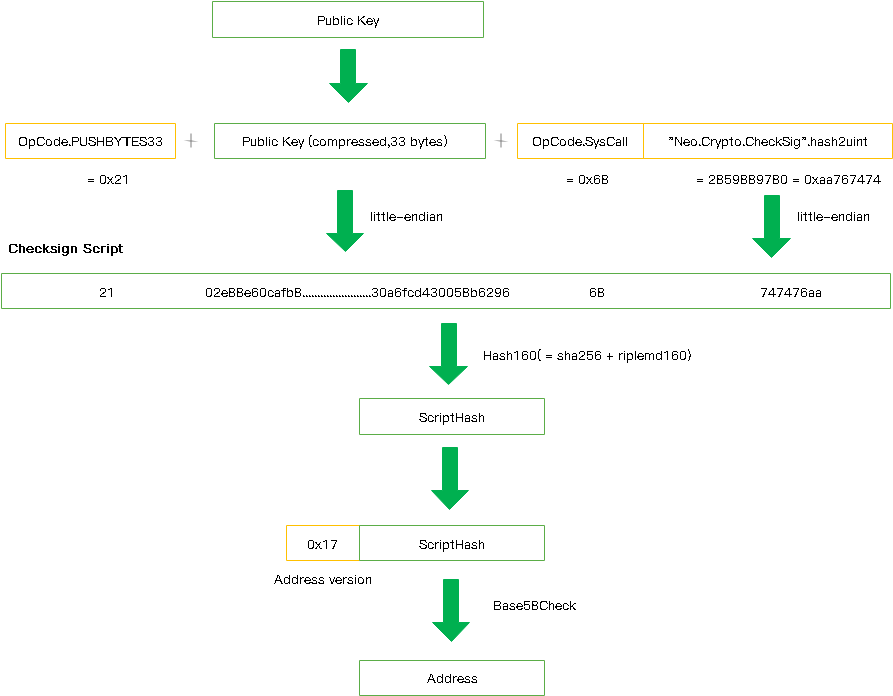
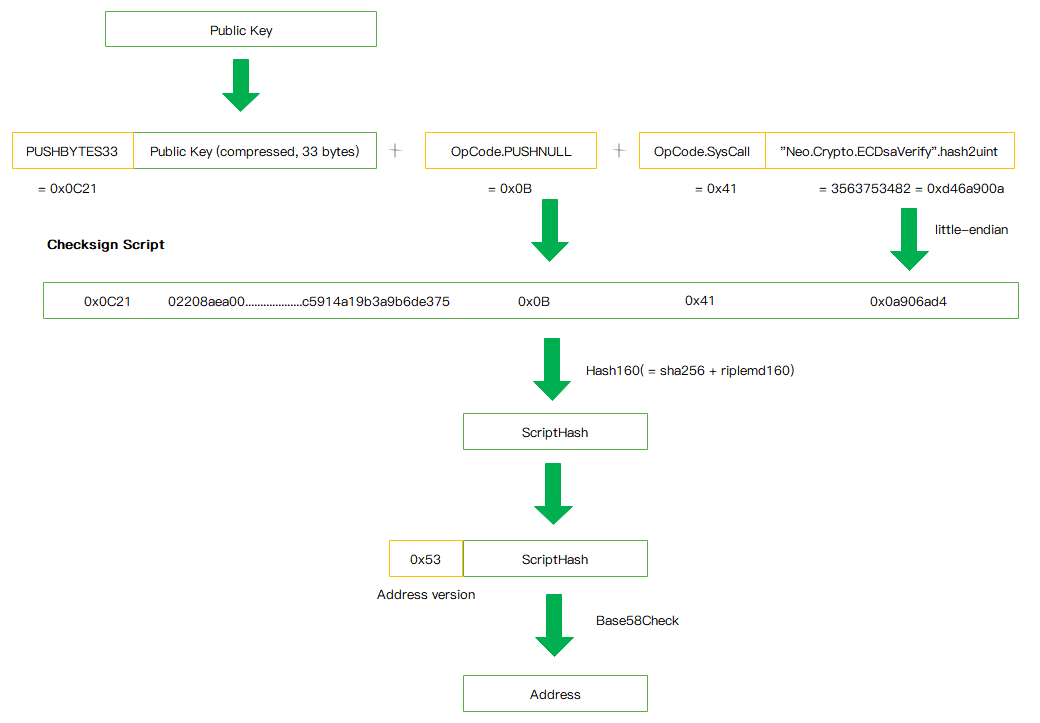
update wallet

diff --git a/docs/en-us/tooldev/wallets.md b/docs/en-us/tooldev/wallets.md
@@ -60,21 +60,21 @@ Address is a string of numbers and letters after a series of transformations of 
 
 > [!Note]
 >
-> The address script in NEO3 has changed not using the Opcode.CheckSig and OpCode.CheckMultiSig but the interoperable service call `SysCall "Neo.Crypto.CheckSig".hash2uint`, `SysCall "Neo.Crypto .CheckMultiSig".hash2unit` instead.
+> The address script in NEO3 has changed not using the Opcode.CheckSig and OpCode.CheckMultiSig but the interoperable service call `SysCall "Neo.Crypto.ECDsaVerify".hash2uint`, `SysCall "Neo.Crypto.ECDsaCheckMultiSig".hash2unit` instead.
 
 #### Ordinary Address
 
 1. Build a `CheckSig` script with the public key, and the format is as follows:
 
     ```
-    0x21 + Public Key(Compressed 33 bytes) + 0x68 + 0x747476aa
+    0x0C + 0x21 + Public Key(Compressed 33 bytes) + 0x0B + 0x41 + 0x0a906ad4
     ```
 
     ![](images\wallets\account_address_script_checksign.png)
 
 2. Calculate script hash of the contract (20 bytes, make once SHA256 and RIPEMD160 of the script). 
 
-3. Add the version prefix in the hash (Currently, the NEO version is `0x17`).
+3. Add the version prefix in the hash (Currently, the NEO version is `0x53`).
 
 4. Make Base58Check encoding for the above byte data.
 
@@ -84,22 +84,22 @@ Example：
 |----------|:-------------:|
 | Private Key | 3bf2c2c3a43ee817c5a7704b60e5265e73e585eb85b17091c451ddf72fd80c41 |
 | Public Key (Compressed) | 02208aea0068c429a03316e37be0e3e8e21e6cda5442df4c5914a19b3a9b6de375 |
-| Script | 2102208aea0068c429a03316e37be0e3e8e21e6cda5442df4c5914a19b3a9b6de37568747476aa |
-| Address | Aa63RMYRWHPRcrZNzUnq5SNrPqoV866Spu |
+| Script | 0c2102208aea0068c429a03316e37be0e3e8e21e6cda5442df4c5914a19b3a9b6de3750b410a906ad4 |
+| Address | NWRRMt1FGSZiiT8Wg7naBwrEKLN4SXcUzH |
 
 #### Multi-Signature Address
 
 1. Construct an N-of-M `CheckMultiSig` script with multiple addresses. The script format is as follows: 
 
    ```
-   emitPush(N) + 0x21 + Public Key1(Compressed 33 bytes)  + .... + 0x21 + Public KeyM + emitPush(M) +  0x68 + 0xc7c34cba
+   emitPush(N) + 0x0C + 0x21 + Public Key1(Compressed 33 bytes)  + .... + 0x0C + 0x21 + Public KeyM + emitPush(M) +  0x0B + 0x41 + 0x3073b3bb
    ```
 
    [![address checksign](https://github.com/Tommo-L/NEO3-Development-Guide/raw/master/images/account_address_script_multi_checksign.png)](https://github.com/Tommo-L/NEO3-Development-Guide/blob/master/images/account_address_script_multi_checksign.png)
 
 2. Calculate script hash of the contract (20 bytes, make once SHA256 and RIPEMD160 of the script).
 
-3. Add the version prefix in the hash. (Currently, the NEO version is `0x17`)
+3. Add the version prefix in the hash. (Currently, the NEO version is `0x53`)
 
 4. Make Base58Check encoding for the above byte data.
 
@@ -109,19 +109,22 @@ Example:
 | ----------------------- | ------------------------------------------------------------ |
 | Private Key             | 97374afac1e801407d6a60006e00d555297c5019788795f017d4cd1fff3df529， aab9d4e4223e088aa6eb1f0ce75c11d149625f6d6a19452d765f8737200a4c35 |
 | Public Key (Compressed) | 035fdb1d1f06759547020891ae97c729327853aeb1256b6fe0473bc2e9fa42ff50，03eda286d19f7ee0b472afd1163d803d620a961e1581a8f2704b52c0285f6e022d |
-| Script                  | 5221035fdb1d1f06759547020891ae97c729327853aeb1256b6fe0473bc2e9fa42ff502103eda286d19f7ee0b472afd1163d803d620a961e1581a8f2704b52c0285f6e022d5268c7c34cba |
-| Address                 | AQuqfBZmzejZt4CQc7mkgvEXmSvdMUEBok                           |
+| Script                  | 120c21035fdb1d1f06759547020891ae97c729327853aeb1256b6fe0473bc2e9fa42ff500c2103eda286d19f7ee0b472afd1163d803d620a961e1581a8f2704b52c0285f6e022d120b413073b3bb |
+| Address                 | Nh6qrufMRfPNsRh3sNo6asWvvQXrzWdwoK                           |
 
 > [!Note]
 >
-> Please pay attention to the interval of the number for the usage of `emitPush(number)`. Here is an example in the case of the number being BigInteger:
+> Please pay attention to the interval of the number for the usage of `emitPush(number)`. Here is an example in the case of the number being BigInteger, where data = number.ToByteArray():
 
 | Number           | Emit OpCode                        | Value            |
 | ---------------- | ---------------------------------- | ---------------- |
-| -1               | OpCode.PUSHM1                      | 0x4F             |
-| 0                | OpCode.PUSH0                       | 0x00             |
-| 0 < number <= 16 | OpCode.PUSH1 - 1 + (byte)number    | 0x51 -1 + number |
-| number > 16      | number.bytes.length + number.bytes |                  |
+| -1 <= number <= 16  | OpCode.PUSH0 + (byte)(int)number | 0x10 + number   |
+| data.Length == 1  | OpCode.PUSHINT8 + data | 0x00 + data   |
+| data.Length == 2  | OpCode.PUSHINT16 + data | 0x01 + data   |
+| data.Length <= 4  | OpCode.PUSHINT32 + data | 0x02 + PadRight(data, 4)   |
+| data.Length <= 8  | OpCode.PUSHINT64 + data | 0x03 + PadRight(data, 8)   |
+| data.Length <= 16  | OpCode.PUSHINT128 + data | 0x04 + PadRight(data, 16) |
+| data.Length <= 32  | OpCode.PUSHINT256 + data | 0x05 + PadRight(data, 32) |
 
 ## Wallet Files
 
